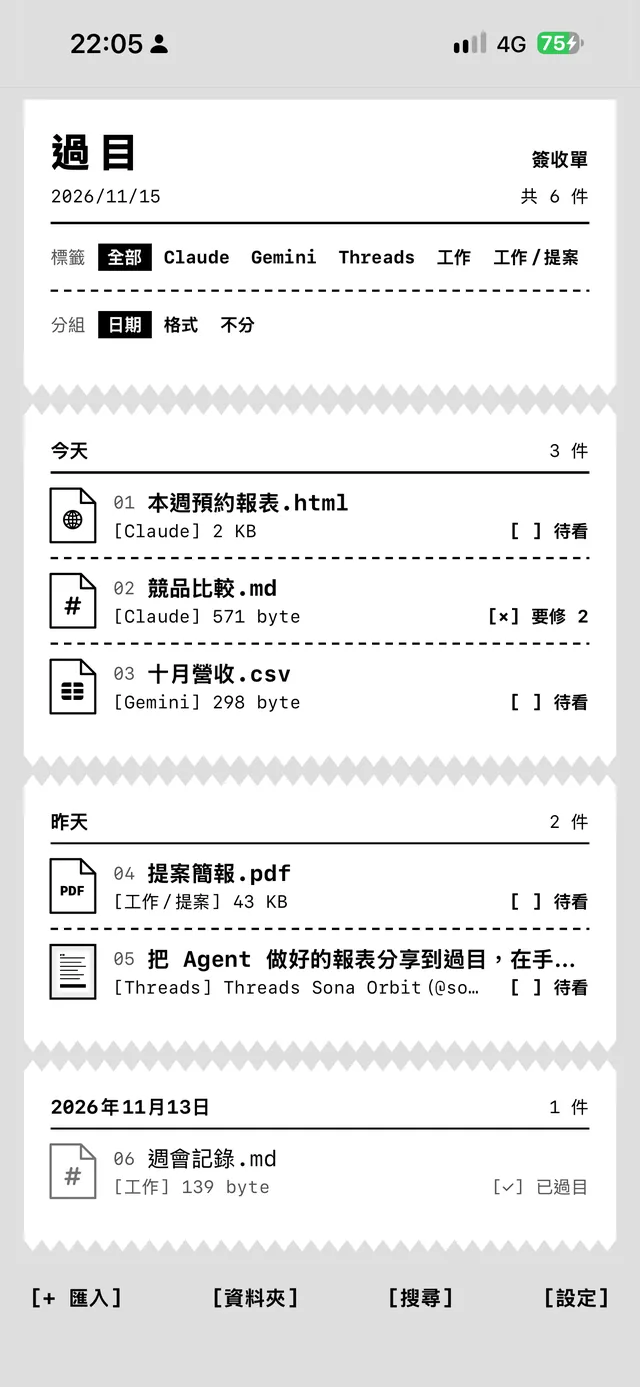
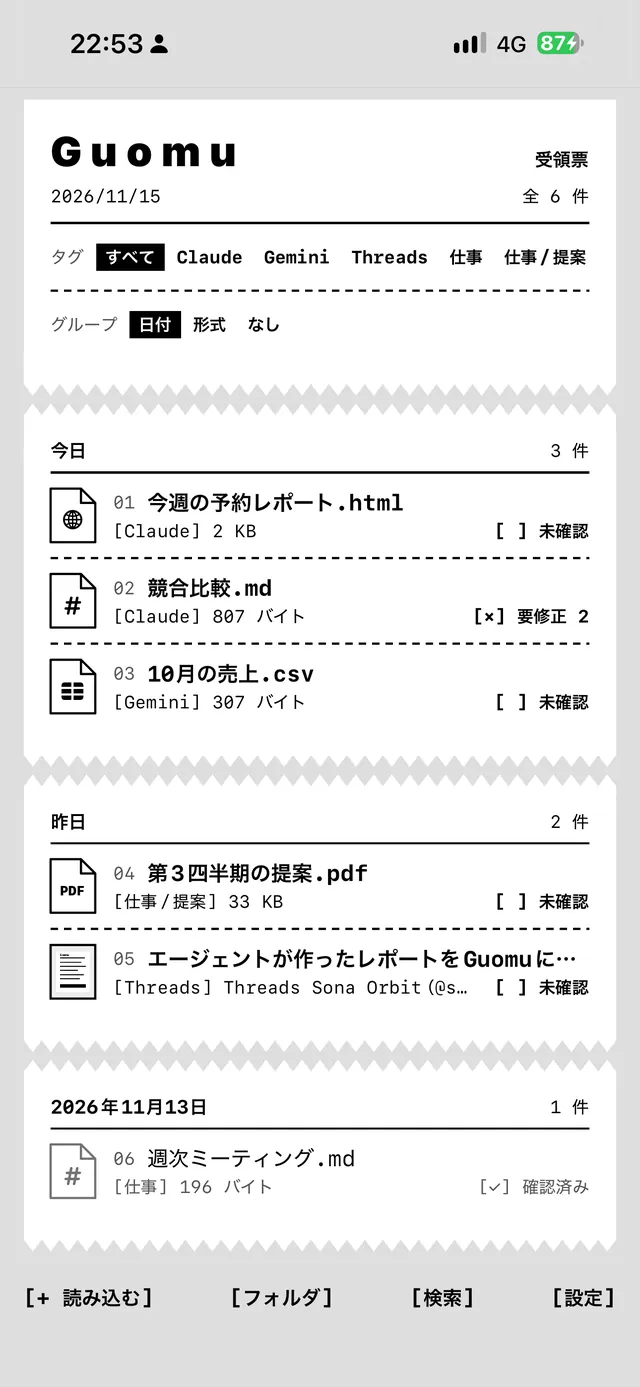
Use localized screenshots for each language

diff --git a/th/index.html b/th/index.html
@@ -56,7 +56,7 @@
 </div></section>
 
 <section class="features" aria-labelledby="h-features">
-<div class="sheet sheet-head"><h2 id="h-features">ทำอะไรได้บ้าง</h2><p class="note">ภาพหน้าจอเป็นแอปภาษาจีนตัวเต็ม</p></div>
+<div class="sheet sheet-head"><h2 id="h-features">ทำอะไรได้บ้าง</h2></div>
 <article class="sheet feature" id="preview"><div class="feat-text"><p class="tag"><span class="num">01</span>รับไฟล์ · ดูไฟล์</p><h3>รับจากเมนูแชร์ แล้วอ่านแบบเต็มจอ</h3><p>ในแอปของเอเจนต์ แตะแชร์ เลือก Guomu ใส่ป้ายกำกับ แล้วกดรับ แอปจะเติมป้ายกำกับให้ก่อน โดยดูจากโดเมนของลิงก์หรือเครื่องหมายที่เอเจนต์เขียนไว้ในไฟล์ ถ้าเดาไม่ได้จะใช้ป้ายที่ใช้ครั้งก่อน จะแก้หรือเว้นว่างไว้ก็ได้ นอกจากนี้ยังนำเข้าไฟล์จากแอปไฟล์ได้ด้วย</p><p>เปิด HTML, Markdown, PDF, รูปภาพ, เสียงและวิดีโอ, CSV, JSON, ZIP, ไฟล์ซับไตเติล และฟอนต์ได้ ไฟล์จะเปิดแบบเต็มจอ ที่มุมขวาล่างมีปุ่มสี่เหลี่ยมสามปุ่ม สำหรับย้อนกลับ ทำเครื่องหมายว่าดูแล้ว และเปิดเมนูทั้งหมด กดได้ด้วยนิ้วโป้งมือเดียว ไฟล์ขนาดใหญ่จะแจ้งขนาดก่อนเปิด</p></div><figure class="shot"><div class="phone"><img src="/guomu/assets/shots/th/preview.webp" alt="รายงานการจองแบบ HTML แสดงเต็มจอ มีปุ่มสี่เหลี่ยมสีดำสามปุ่มที่มุมขวาล่าง" width="640" height="1387" loading="lazy" decoding="async"></div><figcaption>▲ รายงาน HTML ที่เอเจนต์ทำ แสดงเต็มจอ ปุ่มสามปุ่มอยู่ที่มุมขวาล่าง</figcaption></figure></article>
 <article class="sheet feature flip" id="review"><div class="feat-text"><p class="tag"><span class="num">02</span>ตรวจงาน</p><h3>จดโน้ต แล้วออกใบตีกลับ</h3><p>เจอจุดที่ต้องแก้ ก็เพิ่มโน้ตว่าอยู่ตรงไหนและต้องแก้อะไร งานแต่ละชิ้นมีสามสถานะ คือ รอดู ต้องแก้ และดูแล้ว</p><p>ใบตีกลับจะรวมโน้ตที่ยังไม่ได้แก้เป็นข้อความเดียว คัดลอกหรือแชร์กลับไปในแชตกับเอเจนต์ได้ ถ้ามีไฟล์ชื่อเดิมส่งเข้ามาอีก จะบันทึกเป็นฉบับที่ 2</p></div><figure class="shot"><div class="phone"><img src="/guomu/assets/shots/th/review.webp" alt="ตัวอย่างเอกสาร Markdown มีโน้ตหนึ่งข้อและปุ่มใบตีกลับด้านล่าง" width="640" height="1387" loading="lazy" decoding="async"></div><figcaption>▲ ไฟล์ Markdown มีโน้ตหนึ่งข้ออยู่ด้านล่าง ปุ่มด้านล่างจะรวมโน้ตเป็นใบตีกลับ</figcaption></figure></article>
 <article class="sheet feature" id="post"><div class="feat-text"><p class="tag"><span class="num">03</span>โพสต์</p><h3>เก็บโพสต์จากลิงก์</h3><p>แชร์ลิงก์โพสต์จาก Threads, X, Instagram หรือ Facebook เข้ามา แอปจะเก็บชื่อผู้โพสต์ ข้อความ และรูปแรกไว้</p><p>อ่านได้เฉพาะโพสต์สาธารณะ เก็บแค่รูปแรกและไม่เก็บวิดีโอ สำหรับ X รูปที่ได้จะเป็นรูปโปรไฟล์ของผู้โพสต์ ส่วนโพสต์ที่ต้องล็อกอินก่อนจึงจะเห็นนั้นอ่านไม่ได้</p></div><figure class="shot"><div class="phone"><img src="/guomu/assets/shots/th/post.webp" alt="โพสต์ Threads ที่เก็บไว้ มีชื่อผู้โพสต์ ข้อความ และรูปหนึ่งรูป" width="640" height="1387" loading="lazy" decoding="async"></div><figcaption>▲ โพสต์จาก Threads ใต้รูปมีข้อความบอกว่าเก็บแค่รูปแรก</figcaption></figure></article>

diff --git a/ja/index.html b/ja/index.html
@@ -56,7 +56,7 @@
 </div></section>
 
 <section class="features" aria-labelledby="h-features">
-<div class="sheet sheet-head"><h2 id="h-features">できること</h2><p class="note">スクリーンショットは繁体字中国語の画面です。</p></div>
+<div class="sheet sheet-head"><h2 id="h-features">できること</h2></div>
 <article class="sheet feature" id="preview"><div class="feat-text"><p class="tag"><span class="num">01</span>受け取り・プレビュー</p><h3>共有メニューから受け取って、全画面で読む</h3><p>エージェントのアプリで共有をタップし、過目を選び、ラベルを付けて受け取ります。ラベルにはまず候補が入ります。リンクのドメインや、エージェントがファイルに書いた目印から推測し、わからなければ前回のラベルが入ります。書き換えても、空欄のままでもかまいません。「ファイル」App からの読み込みもできます。</p><p>HTML、Markdown、PDF、画像、音声と動画、CSV、JSON、ZIP、字幕、フォントなどを開けます。開くと全画面表示になり、右下にある3つの四角いボタンで、前の画面に戻る、確認済みにする、すべての操作を表示する、ができます。片手の親指が届く位置です。大きなファイルは、開く前にサイズを知らせます。</p></div><figure class="shot"><div class="phone"><img src="/guomu/assets/shots/ja/preview.webp" alt="全画面表示の HTML 予約レポート。右下に黒い四角のボタンが3つ" width="640" height="1387" loading="lazy" decoding="async"></div><figcaption>▲ エージェントが作った HTML レポートを全画面で表示。右下に3つのボタン。</figcaption></figure></article>
 <article class="sheet feature flip" id="review"><div class="feat-text"><p class="tag"><span class="num">02</span>チェック</p><h3>メモを残して、差し戻し票を作る</h3><p>直したい箇所があれば、場所と直す内容をメモに書きます。状態は「未確認」「要修正」「確認済み」の3つです。</p><p>差し戻し票は、まだ解決していないメモを一つの文章にまとめたものです。コピーするか、共有してエージェントとの会話に戻します。同じ名前のファイルがもう一度届くと、第2版として記録されます。</p></div><figure class="shot"><div class="phone"><img src="/guomu/assets/shots/ja/review.webp" alt="Markdown 文書のプレビュー。下にメモが1件と差し戻し票のボタン" width="640" height="1387" loading="lazy" decoding="async"></div><figcaption>▲ Markdown ファイルの下にメモが1件。下のボタンでメモを差し戻し票にまとめます。</figcaption></figure></article>
 <article class="sheet feature" id="post"><div class="feat-text"><p class="tag"><span class="num">03</span>投稿</p><h3>SNS の投稿をリンクから保存する</h3><p>Threads、X、Instagram、Facebook の投稿リンクを共有すると、投稿者、本文、1枚目の画像を保存します。</p><p>読み取れるのは公開投稿だけです。画像は1枚目のみで、動画は保存しません。X の場合、保存される画像は投稿者のプロフィール画像です。ログインしないと見られない投稿は読み取れません。</p></div><figure class="shot"><div class="phone"><img src="/guomu/assets/shots/ja/post.webp" alt="保存した Threads の投稿。投稿者、本文、画像1枚" width="640" height="1387" loading="lazy" decoding="async"></div><figcaption>▲ Threads の投稿。画像の下に、1枚目だけを保存したことが書かれています。</figcaption></figure></article>

diff --git a/ko/index.html b/ko/index.html
@@ -56,7 +56,7 @@
 </div></section>
 
 <section class="features" aria-labelledby="h-features">
-<div class="sheet sheet-head"><h2 id="h-features">주요 기능</h2><p class="note">스크린샷은 번체 중국어 화면입니다.</p></div>
+<div class="sheet sheet-head"><h2 id="h-features">주요 기능</h2></div>
 <article class="sheet feature" id="preview"><div class="feat-text"><p class="tag"><span class="num">01</span>받기 · 미리보기</p><h3>공유 메뉴로 받고 전체 화면으로 읽기</h3><p>에이전트 앱에서 공유를 누르고 Guomu를 고른 뒤, 라벨을 정해 수령합니다. 라벨은 링크의 도메인이나 에이전트가 파일에 적어 둔 표시를 보고 먼저 채워지며, 찾지 못하면 지난번 라벨이 들어갑니다. 바꿔도 되고 비워 둬도 됩니다. &#x27;파일&#x27; 앱에서 가져올 수도 있습니다.</p><p>HTML, Markdown, PDF, 이미지, 오디오와 동영상, CSV, JSON, ZIP, 자막, 글꼴 등을 열 수 있습니다. 파일은 전체 화면으로 열리고, 오른쪽 아래의 네모 버튼 세 개로 뒤로 가기, 확인 완료 표시, 전체 메뉴 열기를 합니다. 한 손 엄지가 닿는 자리입니다. 큰 파일은 열기 전에 크기를 알려 줍니다.</p></div><figure class="shot"><div class="phone"><img src="/guomu/assets/shots/ko/preview.webp" alt="전체 화면으로 표시한 HTML 예약 보고서. 오른쪽 아래에 검은 네모 버튼 세 개" width="640" height="1387" loading="lazy" decoding="async"></div><figcaption>▲ 에이전트가 만든 HTML 보고서를 전체 화면으로 본 모습. 오른쪽 아래에 버튼 세 개가 있습니다.</figcaption></figure></article>
 <article class="sheet feature flip" id="review"><div class="feat-text"><p class="tag"><span class="num">02</span>검토</p><h3>메모를 남기고 반려서 만들기</h3><p>고칠 곳이 보이면 위치와 고칠 내용을 메모로 남깁니다. 상태는 &#x27;확인 전&#x27;, &#x27;수정 필요&#x27;, &#x27;확인 완료&#x27; 세 가지입니다.</p><p>반려서는 아직 해결되지 않은 메모를 하나의 글로 정리한 것입니다. 복사하거나 공유해서 에이전트와의 대화에 다시 넣으면 됩니다. 같은 이름의 파일이 다시 들어오면 2판으로 표시됩니다.</p></div><figure class="shot"><div class="phone"><img src="/guomu/assets/shots/ko/review.webp" alt="Markdown 문서 미리보기. 아래에 메모 하나와 반려서 버튼" width="640" height="1387" loading="lazy" decoding="async"></div><figcaption>▲ Markdown 파일 아래에 메모가 하나 있습니다. 아래 버튼을 누르면 메모가 반려서로 정리됩니다.</figcaption></figure></article>
 <article class="sheet feature" id="post"><div class="feat-text"><p class="tag"><span class="num">03</span>게시물</p><h3>SNS 게시물을 링크로 저장하기</h3><p>Threads, X, Instagram, Facebook 게시물 링크를 공유하면 작성자, 본문, 첫 번째 이미지를 저장합니다.</p><p>공개 게시물만 읽을 수 있습니다. 이미지는 첫 장만 저장하고 동영상은 저장하지 않습니다. X 게시물은 작성자의 프로필 사진이 저장됩니다. 로그인해야 보이는 게시물은 읽지 못합니다.</p></div><figure class="shot"><div class="phone"><img src="/guomu/assets/shots/ko/post.webp" alt="저장한 Threads 게시물. 작성자, 본문, 이미지 한 장" width="640" height="1387" loading="lazy" decoding="async"></div><figcaption>▲ Threads 게시물. 이미지 아래에 첫 장만 저장했다는 안내가 있습니다.</figcaption></figure></article>

diff --git a/index.html b/index.html
@@ -56,7 +56,7 @@
 </div></section>
 
 <section class="features" aria-labelledby="h-features">
-<div class="sheet sheet-head"><h2 id="h-features">What it does</h2><p class="note">The screenshots show the app in Traditional Chinese.</p></div>
+<div class="sheet sheet-head"><h2 id="h-features">What it does</h2></div>
 <article class="sheet feature" id="preview"><div class="feat-text"><p class="tag"><span class="num">01</span>Receive · Preview</p><h3>Share it in, read it full screen</h3><p>In the agent&#x27;s app, tap Share, choose Guomu, add a label and confirm. Guomu fills in a label first, from the link&#x27;s domain or a tag the agent wrote into the file, and otherwise uses the last label you chose. You can change it or leave it empty. Files can also be imported from the Files app.</p><p>HTML, Markdown, PDF, images, audio and video, CSV, JSON, ZIP, subtitles and fonts all open. Files open full screen. Three square buttons in the bottom-right corner go back, mark the file as reviewed, or bring up the full controls, and your thumb reaches them with one hand. Before a large file opens, Guomu shows its size.</p></div><figure class="shot"><div class="phone"><img src="/guomu/assets/shots/en/preview.webp" alt="An HTML booking report shown full screen, with three black square buttons at the bottom right" width="640" height="1387" loading="lazy" decoding="async"></div><figcaption>▲ An HTML report from an agent, full screen. The three buttons sit at the bottom right.</figcaption></figure></article>
 <article class="sheet feature flip" id="review"><div class="feat-text"><p class="tag"><span class="num">02</span>Review</p><h3>Leave notes, then send a return slip</h3><p>When something needs fixing, add a note that says where it is and what to change. Each delivery has one of three statuses: to review, needs fixing, reviewed.</p><p>The return slip gathers the open notes into one piece of text, which you copy or share back into the conversation with the agent. When a file with the same name comes in again, it is marked as version 2.</p></div><figure class="shot"><div class="phone"><img src="/guomu/assets/shots/en/review.webp" alt="A Markdown document with a note and a return slip button at the bottom" width="640" height="1387" loading="lazy" decoding="async"></div><figcaption>▲ A Markdown file with one note below it. The button at the bottom turns the notes into a return slip.</figcaption></figure></article>
 <article class="sheet feature" id="post"><div class="feat-text"><p class="tag"><span class="num">03</span>Posts</p><h3>Save a post from its link</h3><p>Share a post&#x27;s link from Threads, X, Instagram or Facebook, and Guomu saves the author, the text and the first image.</p><p>Only public posts can be read. Only the first image is kept and videos are not saved; for X, the saved image is the author&#x27;s profile picture. Posts that need a login cannot be read.</p></div><figure class="shot"><div class="phone"><img src="/guomu/assets/shots/en/post.webp" alt="A saved Threads post with its author, text and one image" width="640" height="1387" loading="lazy" decoding="async"></div><figcaption>▲ A Threads post. The line under the image says only the first image was kept.</figcaption></figure></article>
